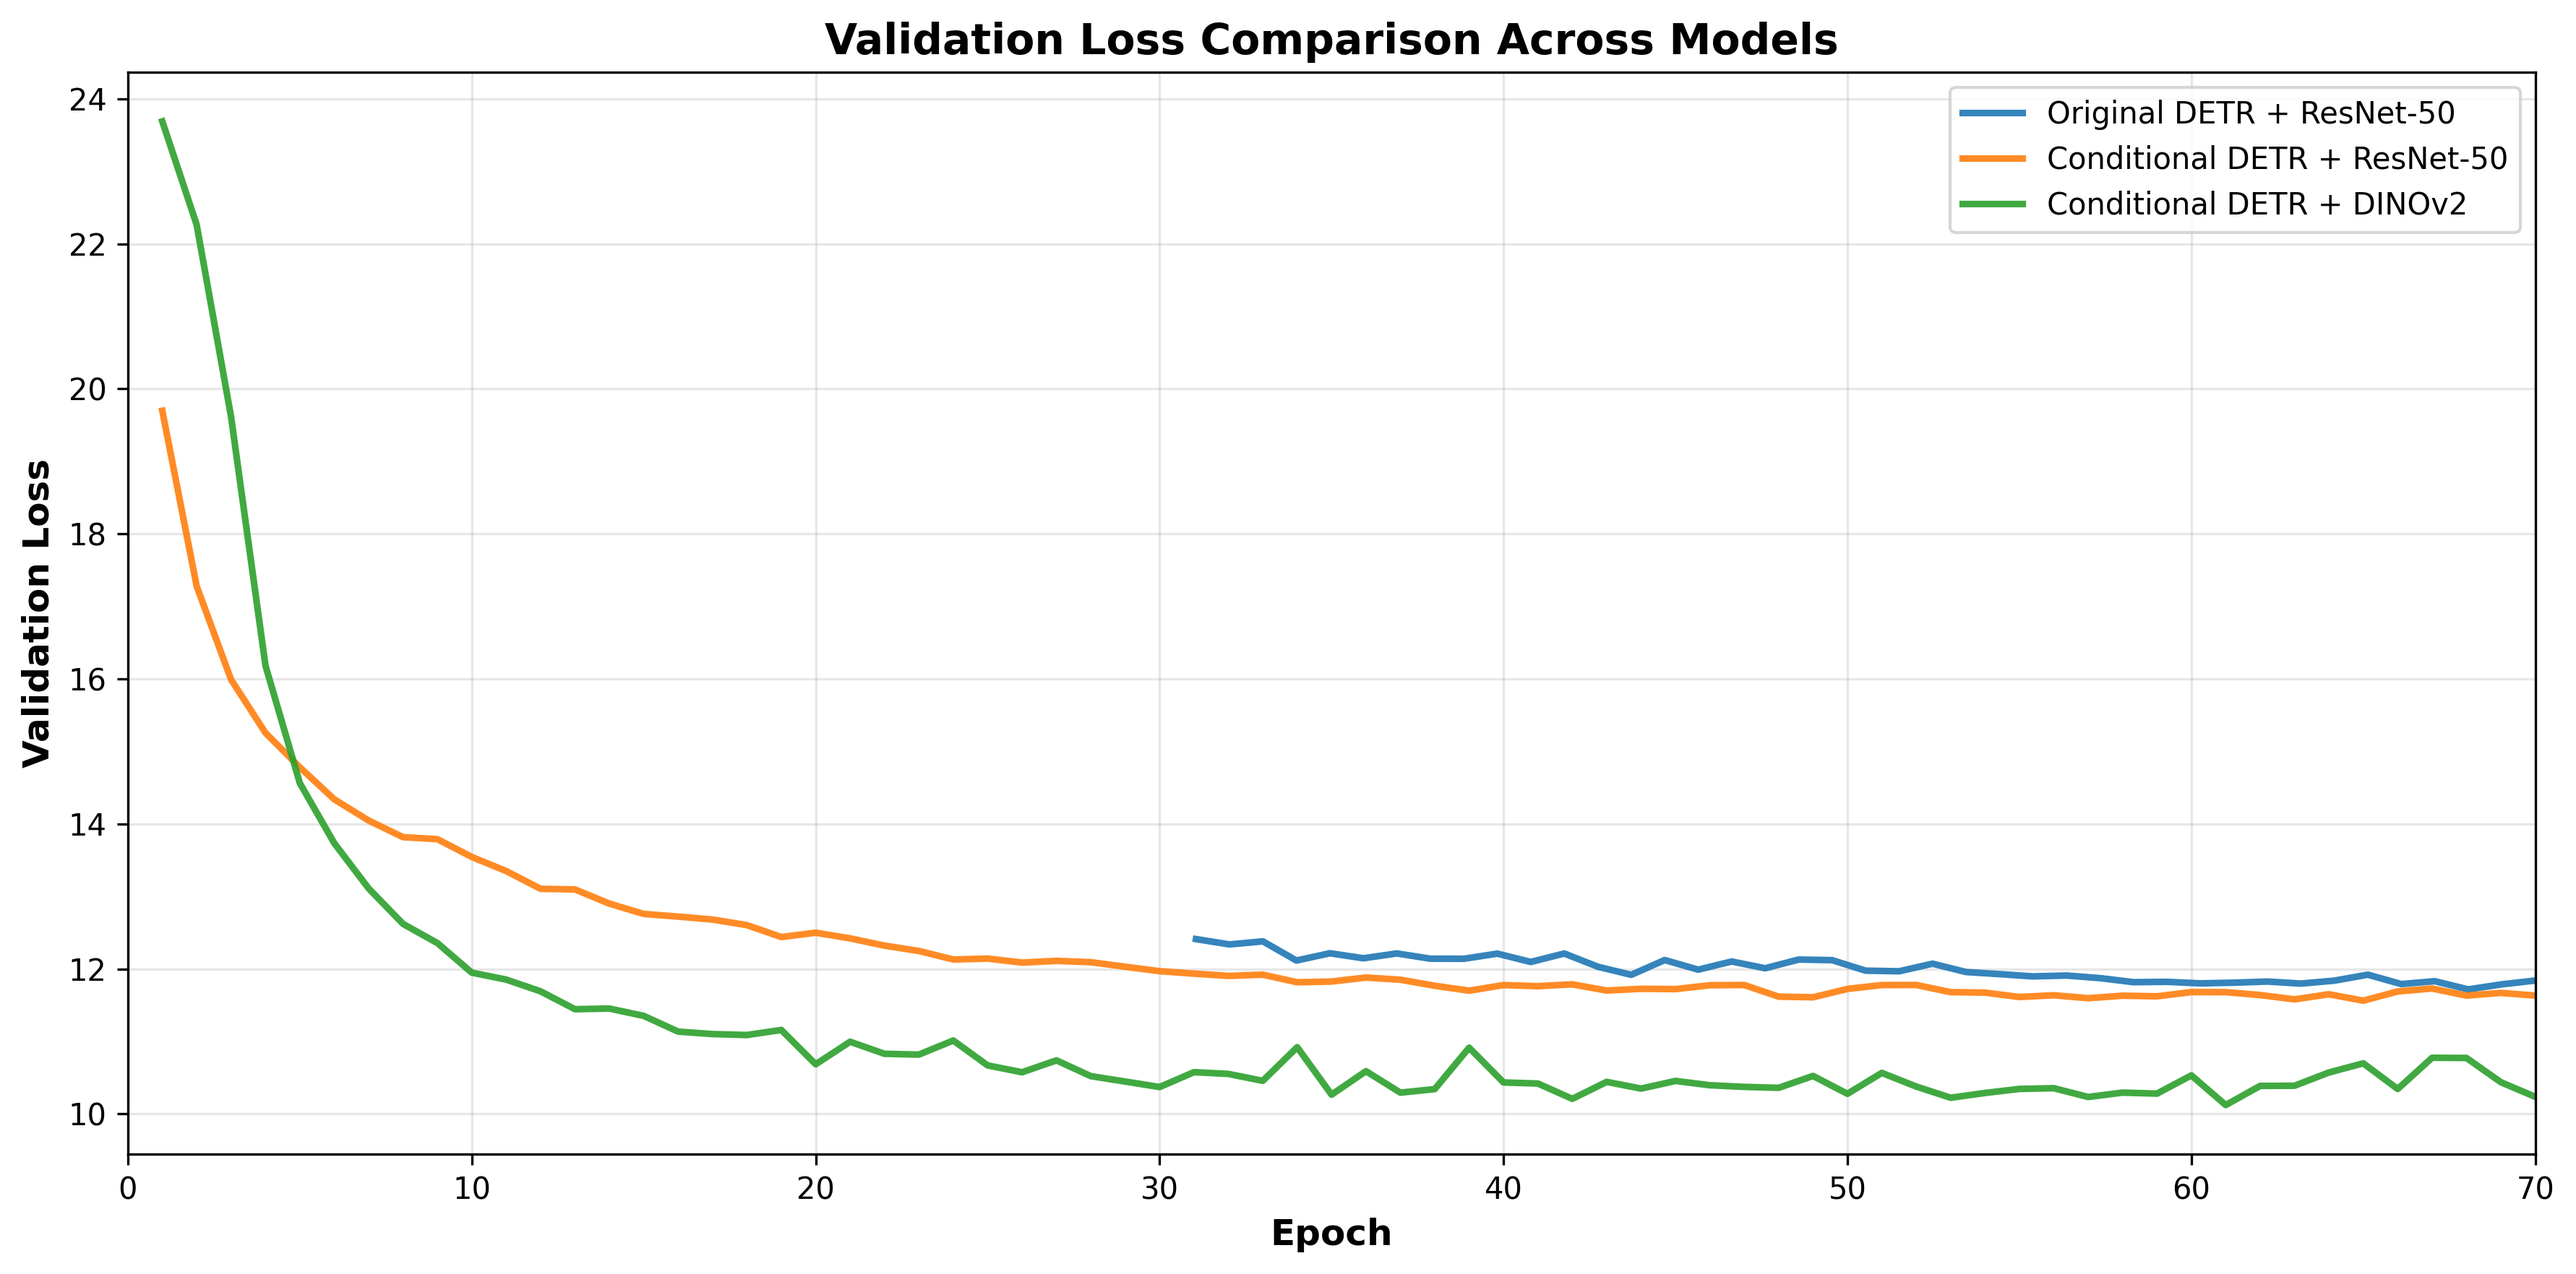
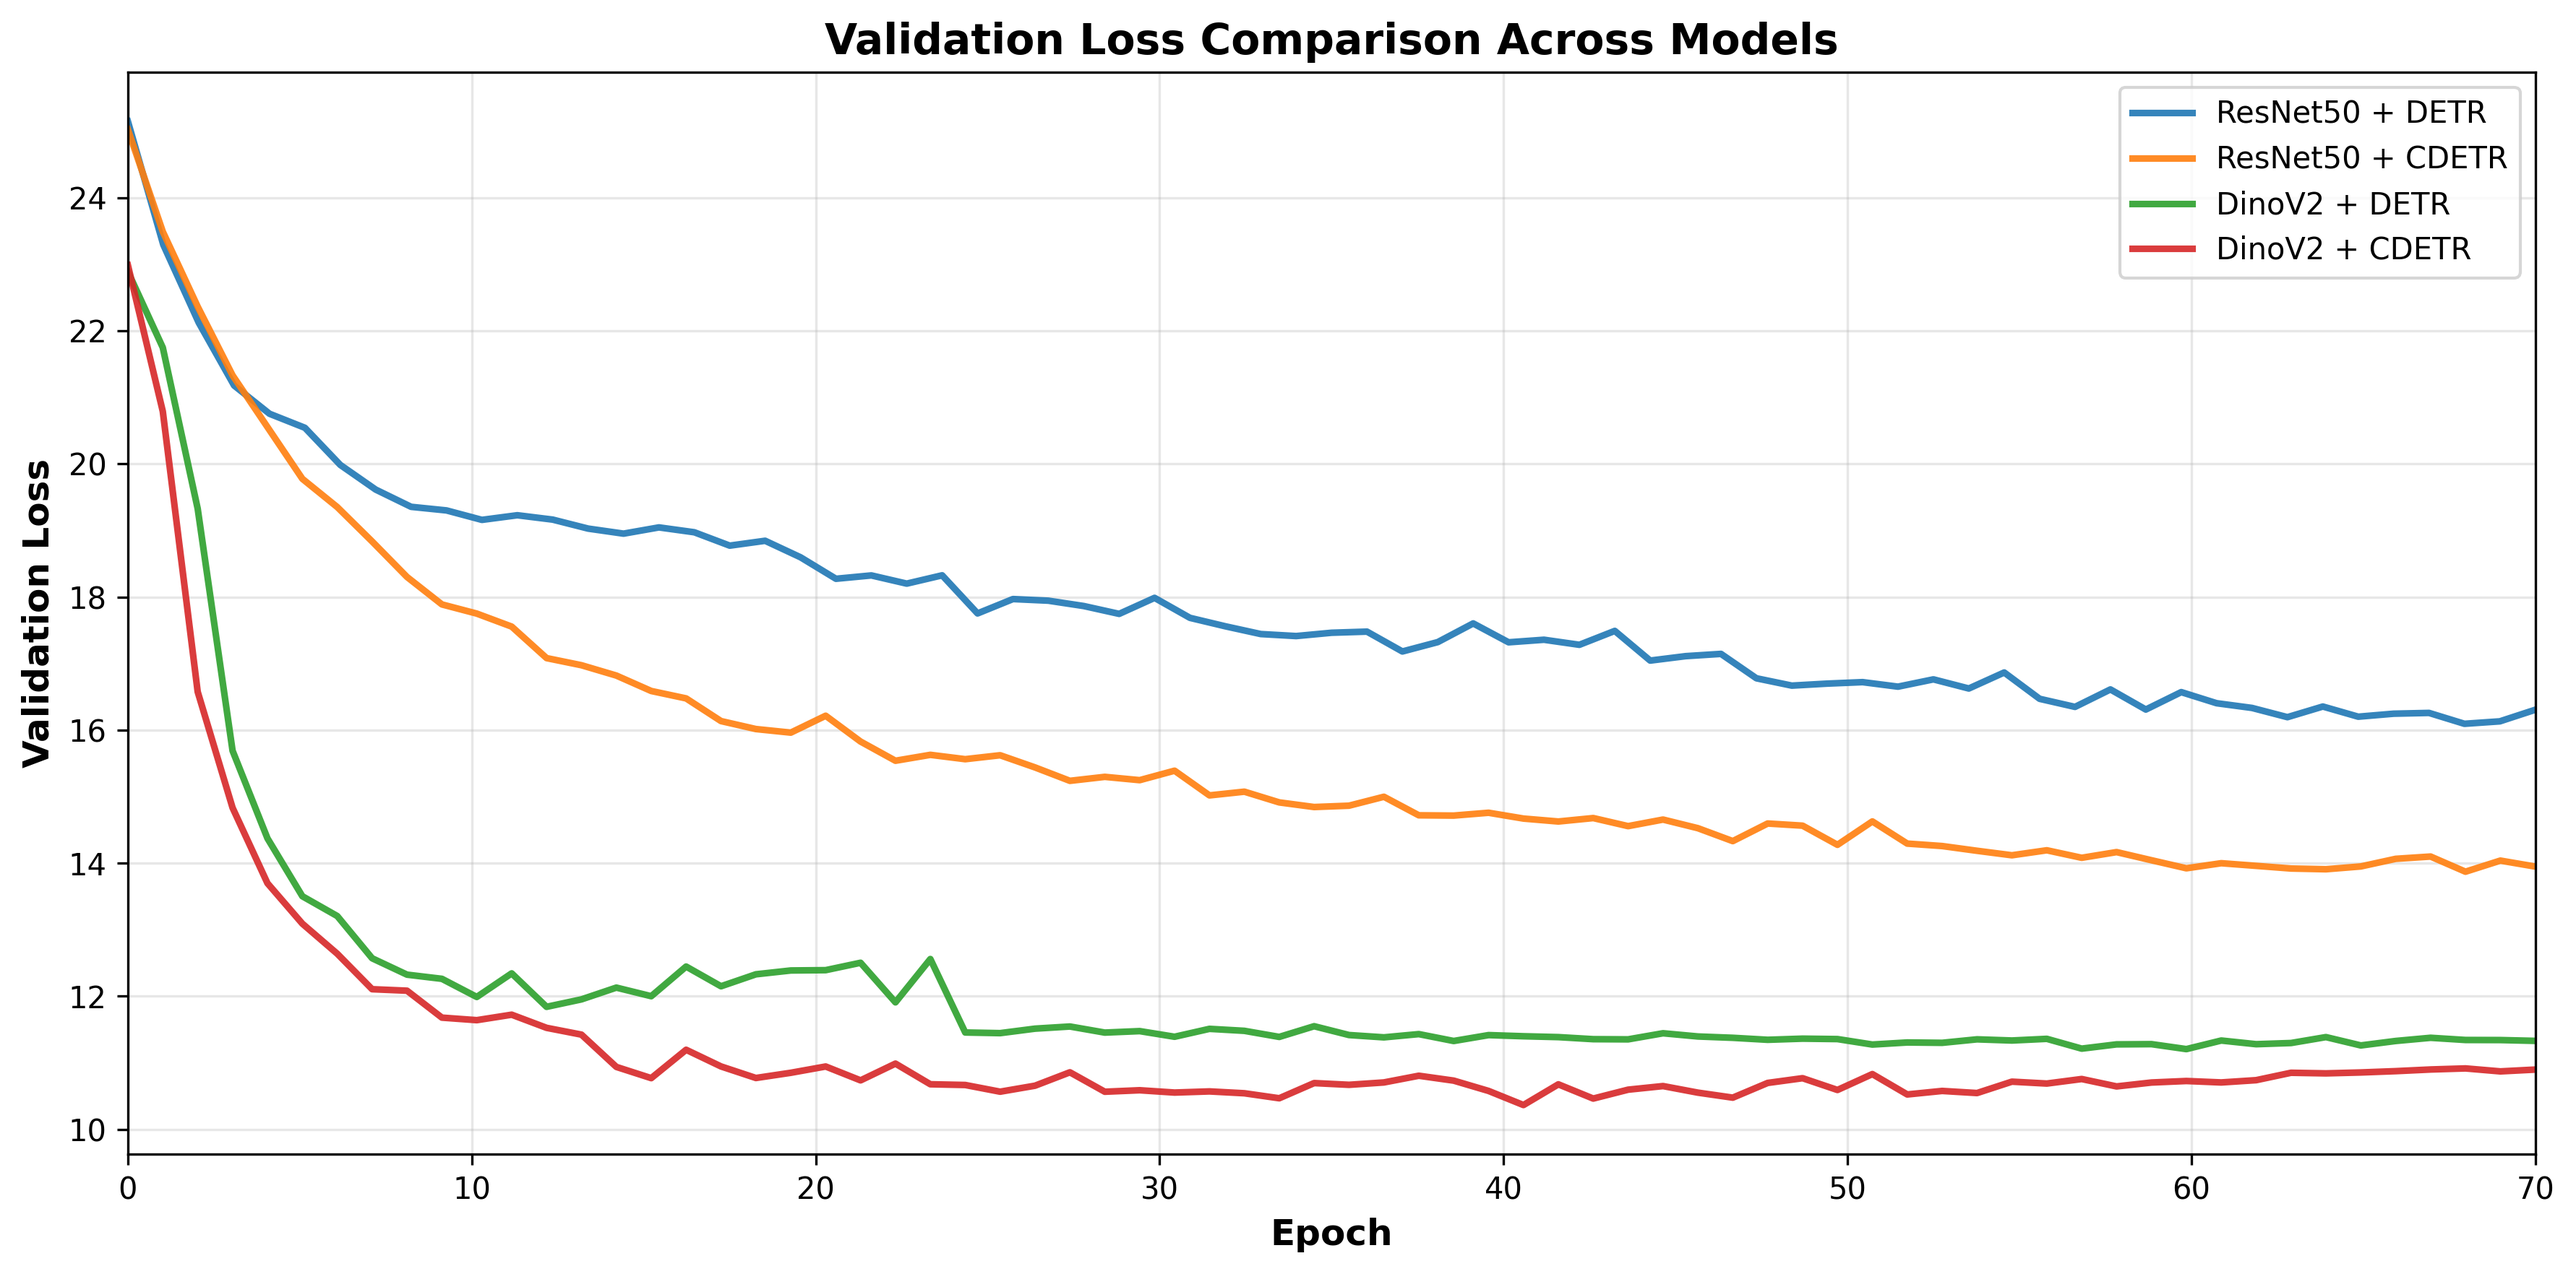
Udate the readme and some code with the new cdetr training results.

diff --git a/src/inference.py b/src/inference.py
@@ -69,10 +69,18 @@ if __name__ == "__main__":
     print("  Loading model checkpoint...")
     device = "cuda" if torch.cuda.is_available() else "cpu"
 
-    ckpt_path = "lightning_logs/version_10/checkpoints/best_epoch=10-step=81323-val_loss=10.1230-train_loss=8.3082.ckpt"
-    config = load_config("lightning_logs/version_10/config.yaml")
-    # ckpt_path = "lightning_logs/version_11/checkpoints/best_epoch=56-step=421401-val_loss=10.9630-train_loss=9.0813.ckpt"
-    # config = load_config("lightning_logs/version_11/config.yaml")
+    # ResNet50 + DETR
+    # ckpt_path = "lightning_logs/version_14_resnet50_detr/checkpoints/best_epoch=66-step=495331-val_loss=16.0936-train_loss=16.5434.ckpt"
+    # config = load_config("lightning_logs/version_14_resnet50_detr/config.yaml")
+    # ResNet50 + CDETR
+    # ckpt_path = "lightning_logs/version_17_resnet50_detr/checkpoints/"
+    # config = load_config("lightning_logs/version_17_resnet50_cdetr/config.yaml")
+    # DinoV2 + DETR
+    # ckpt_path = "lightning_logs/version_16_dino_detr/checkpoints/best_epoch=59-step=887160-val_loss=11.2052-train_loss=9.2438.ckpt"
+    # config = load_config("lightning_logs/version_16_dino_detr/config.yaml")
+    # DinoV2 + CDETR
+    ckpt_path = "lightning_logs/version_15_dino_cdetr/checkpoints/best_epoch=40-step=606226-val_loss=10.3646-train_loss=7.0312.ckpt"
+    config = load_config("lightning_logs/version_15_dino_cdetr/config.yaml")
 
     model = DETR_Lightning.load_from_checkpoint(ckpt_path, config=config, weights_only=False)
     model.eval()

diff --git a/src/plot_losses.py b/src/plot_losses.py
@@ -33,21 +33,17 @@ def extract_losses_from_events(event_file_path, max_epoch=70):
     train_losses = []
     val_losses = []
     
-    # Extract train loss.
-    train_loss_tags = [tag for tag in scalar_tags if 'train' in tag.lower() and 'loss' in tag.lower()]
-    print(f"Train loss tags: {train_loss_tags}")
+    # Use the aggregate tags rather than auxiliary loss components.
+    print(f"Train loss available: {'train_loss' in scalar_tags}")
+    print(f"Validation loss available: {'val_loss' in scalar_tags}")
     
-    # Extract validation loss.
-    val_loss_tags = [tag for tag in scalar_tags if 'val' in tag.lower() and 'loss' in tag.lower()]
-    print(f"Validation loss tags: {val_loss_tags}")
-    
-    # Get the actual loss values.
-    if train_loss_tags:
-        events = ea.Scalars(train_loss_tags[0])
+    # Get the actual aggregate loss values.
+    if 'train_loss' in scalar_tags:
+        events = ea.Scalars('train_loss')
         train_losses = [(event.step, event.value) for event in events]
     
-    if val_loss_tags:
-        events = ea.Scalars(val_loss_tags[0])
+    if 'val_loss' in scalar_tags:
+        events = ea.Scalars('val_loss')
         val_losses = [(event.step, event.value) for event in events]
     
     return {

diff --git a/src/train.py b/src/train.py
@@ -301,16 +301,24 @@ if __name__ == "__main__":
 
     # 2. Load configuration and construct the model.
     config = load_config(args.config)
+
+    cdetr = config["model"].get("use_conditional_decoder", True)
+    detr_variant = "Conditional DETR" if cdetr else "Standard DETR"
+    print(f"\n  Configuration:\n" +
+          f"    - backbone: {config['model']['backbone']}\n" +
+          f"    - DETR variant: {detr_variant}\n"
+          f"    - train batch size: {config['train']['batch_size']}\n"
+    )
     
     checkpoint_path = config["train"].get("checkpoint_path", None)
     if checkpoint_path:
-        print(f"\n  Fine-tuning from checkpoint:\n    {checkpoint_path}")
+        print(f"  Fine-tuning from checkpoint:\n    {checkpoint_path}")
         model = load_checkpoint_for_finetuning(
             checkpoint_path=checkpoint_path,
             config=config
         )
     else:
-        print("\n  Training from scratch.")
+        print("  Training from scratch.")
         model = DETR_Lightning(config=config)
 
     # 3. Get train/validation dataloaders.

diff --git a/README.md b/README.md
@@ -70,51 +70,50 @@ The configuration file [configs/default.yaml](./configs/default.yaml) contains h
 ## Training Results
 
 ### Loss Curves
-Below is a visualization of the combined training and validation loss curves for an example model training (Conditional DETR with DINOv2 backbone, and used only 1000 images from the validation set). The x-axis represents epochs, and the y-axis shows the loss values. This plot demonstrates the convergence behavior and the relationship between training and validation loss throughout the training process.
+Below is a visualization of the combined training and validation loss curves for an example model training (Conditional DETR with DINOv2 backbone, 5000 validation images). The x-axis represents epochs, and the y-axis shows the loss values. This plot demonstrates the convergence behavior and the relationship between training and validation loss throughout the training process. It is clear that the best validation loss is in the 41th epoch, after it no real iprovement is noticed.
 
-<img src="outputs/plots/version_10_merged_loss_plot.png" alt="Training and Validation Loss" width="800"/>
+<img src="outputs/plots/version_15_dino_cdetr_loss_plot.png" alt="Training and Validation Loss" width="800"/>
 <br>
 
 ### Inference
-The model trained (whose training curves are shown above) with COCO dataset presents the following predictions capabilities on a sample image.
+The model (whose training curves are shown above) presents the following predictions capabilities on a sample image.
 
-<img src="outputs/plots/inference.png" alt="Training and Validation Loss" width="800"/>
+<img src="outputs/plots/inference_dino_cdetr.png" alt="Training and Validation Loss" width="800"/>
 <br>
 
 ### Loss Comparison
 The following figure compares validation loss across three model setups:
 - Original DETR with ResNet-50 (OD-R50)
 - Conditional DETR with ResNet-50 (CD-R50)
+- Original DETR with DINOv2 (OD-DINO)
 - Conditional DETR with DINOv2 (CD-DINO)
 
 <img src="outputs/plots/val_loss_model_comparison.png" alt="Validation Loss Comparison Across Models" width="800"/>
 <br>
 
-**Note:** Losses of the blue curve between epoch 0 and 32 are not represented, because the training of that model was a sequence of finetunings, and at epoch 32 I changed the loss formula, so those early values are not compatible with this graph.
-
-The training time of the models are not represented here, but on average one epoch for OD-R50 took 44 min, for CD-R50 took 43 min and for CD-DINO took 81 min. Unfortunately the faster convergence attribute of CD-Res50 over OD-Res50 is not proven since the early losss values are missing, and the training time for both models are quite similar. What is clear that CD-DINO is two times slower because of the huge DINOv2 backbone, but the shape of its loss curve is convincing.
+The training time of the models are not represented here, but on average one epoch for OD-R50 took 49 min, for CD-R50 took 51 min, for OD-DINO took 1h 40 minm and for CD-DINO took 2h 12 min. The faster convergence attribute of CD-Res50 over OD-Res50 is clear, and the significance of the huge DinoV2 backbone over ResNet50 is also obvious. The shape of OD-R50 and CD-R50 curves are convincing, but they need musch more apoch to reach the performance of the other two models. This is exactly what was reported in the original DETR paper. The shape of the OD-DINO and CD-DINO curves shows the faster convergence, but the performance stucks in both cases despite the decrease of the learning rate.
 
 ## Evaluation results
 
 The COCO API (see [pycocotools](https://pypi.org/project/pycocotools/)) is a good choice if someone wants to evaluate a COCO-formatted dataset. I used the COCOEval class to do that on the full validation set (5000 images).
 
-| Metric | IoU | OD-R50 | CD-R50 | CD-DINO |
-| --- | --- | --- | --- | --- |
-| AP | 0.50:0.95 | 0.229 | 0.237 | 0.305 |
-| AP50 | 0.50 | 0.413 | 0.425 | 0.513 |
-| AP75 | 0.75 | 0.222 | 0.231 | 0.310 |
-| AP_small | 0.50:0.95 | 0.033 | 0.042 | 0.084 |
-| AP_medium | 0.50:0.95 | 0.203 | 0.214 | 0.318 |
-| AP_large | 0.50:0.95 | 0.453 | 0.463 | 0.530 |
-| AR_max1 | 0.50:0.95 | 0.218 | 0.223 | 0.282 |
-| AR_max10 | 0.50:0.95 | 0.336 | 0.347 | 0.426 |
-| AR_max100 | 0.50:0.95 | 0.372 | 0.386 | 0.453 |
-| AR_small | 0.50:0.95 | 0.087 | 0.100 | 0.158 |
-| AR_medium | 0.50:0.95 | 0.370 | 0.398 | 0.505 |
-| AR_large | 0.50:0.95 | 0.684 | 0.696 | 0.736 |
+| Metric | IoU | ResNet50 + DETR | ResNet50 + CDETR | DinoV2 + DETR | DinoV2 + CDETR |
+| --- | --- | --- | --- | --- | --- |
+| AP | 0.50:0.95 | 0.045 | 0.132 | 0.281 | <span style="color:turquoise; font-weight:600;">0.317</span> |
+| AP50 | 0.50 | 0.108 | 0.267 | 0.470 | <span style="color:turquoise; font-weight:600;">0.525</span> |
+| AP75 | 0.75 | 0.033 | 0.116 | 0.287 | <span style="color:turquoise; font-weight:600;">0.327</span> |
+| AP_small | 0.50:0.95 | 0.009 | 0.019 | 0.070 | <span style="color:turquoise; font-weight:600;">0.092</span> |
+| AP_medium | 0.50:0.95 | 0.041 | 0.112 | 0.280 | <span style="color:turquoise; font-weight:600;">0.340</span> |
+| AP_large | 0.50:0.95 | 0.086 | 0.260 | 0.515 | <span style="color:turquoise; font-weight:600;">0.543</span> |
+| AR_max1 | 0.50:0.95 | 0.119 | 0.168 | 0.270 | <span style="color:turquoise; font-weight:600;">0.290</span> |
+| AR_max10 | 0.50:0.95 | 0.195 | 0.271 | 0.395 | <span style="color:turquoise; font-weight:600;">0.436</span> |
+| AR_max100 | 0.50:0.95 | 0.226 | 0.295 | 0.418 | <span style="color:turquoise; font-weight:600;">0.458</span> |
+| AR_small | 0.50:0.95 | 0.025 | 0.047 | 0.132 | <span style="color:turquoise; font-weight:600;">0.163</span> |
+| AR_medium | 0.50:0.95 | 0.194 | 0.287 | 0.459 | <span style="color:turquoise; font-weight:600;">0.516</span> |
+| AR_large | 0.50:0.95 | 0.453 | 0.577 | 0.711 | <span style="color:turquoise; font-weight:600;">0.737</span> |
 
 
-For all metrics the bigger value the better. The superiority of Conditional DETR with DINOv2 backbone is clear.
+For all metrics the bigger value the better. In this 4-model comparison, DinoV2 + CDETR gives the strongest overall AP/AR results, which supports the initial assumption derived from the validation loss curves.
 
 ## How DETR Detects Objects
 
